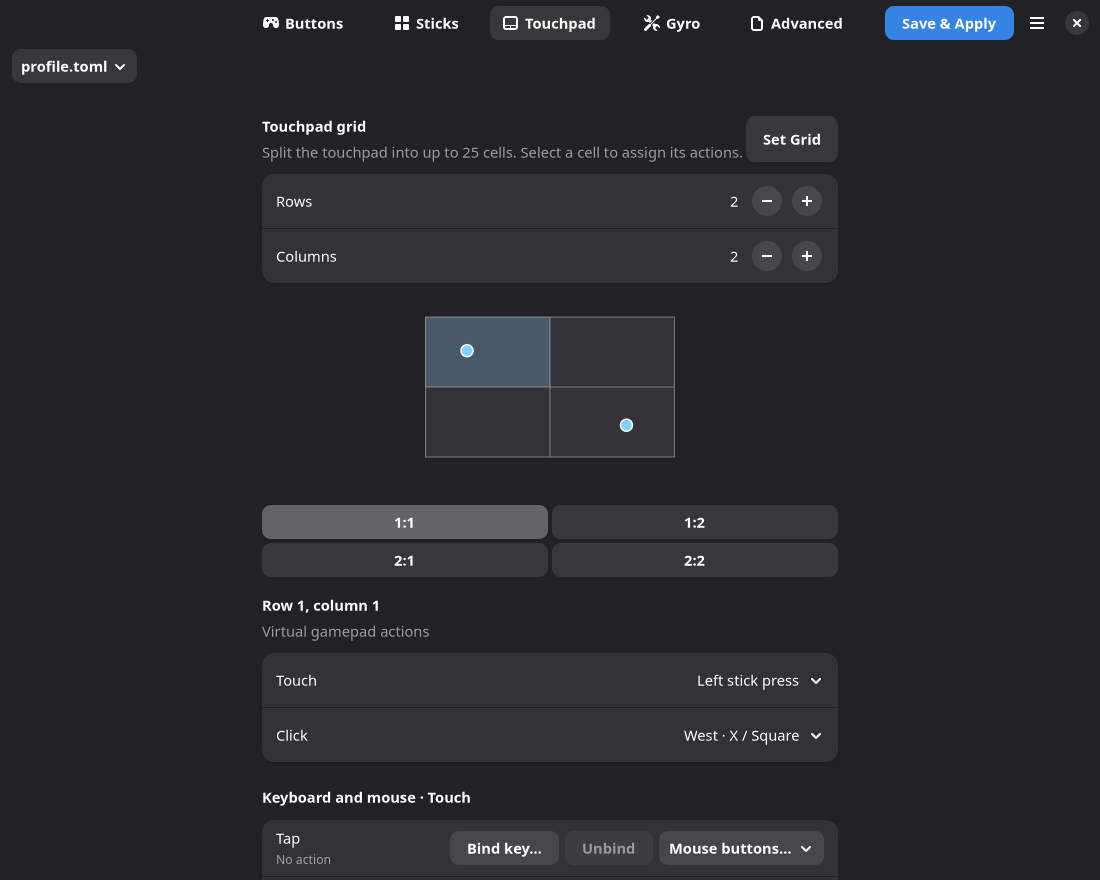
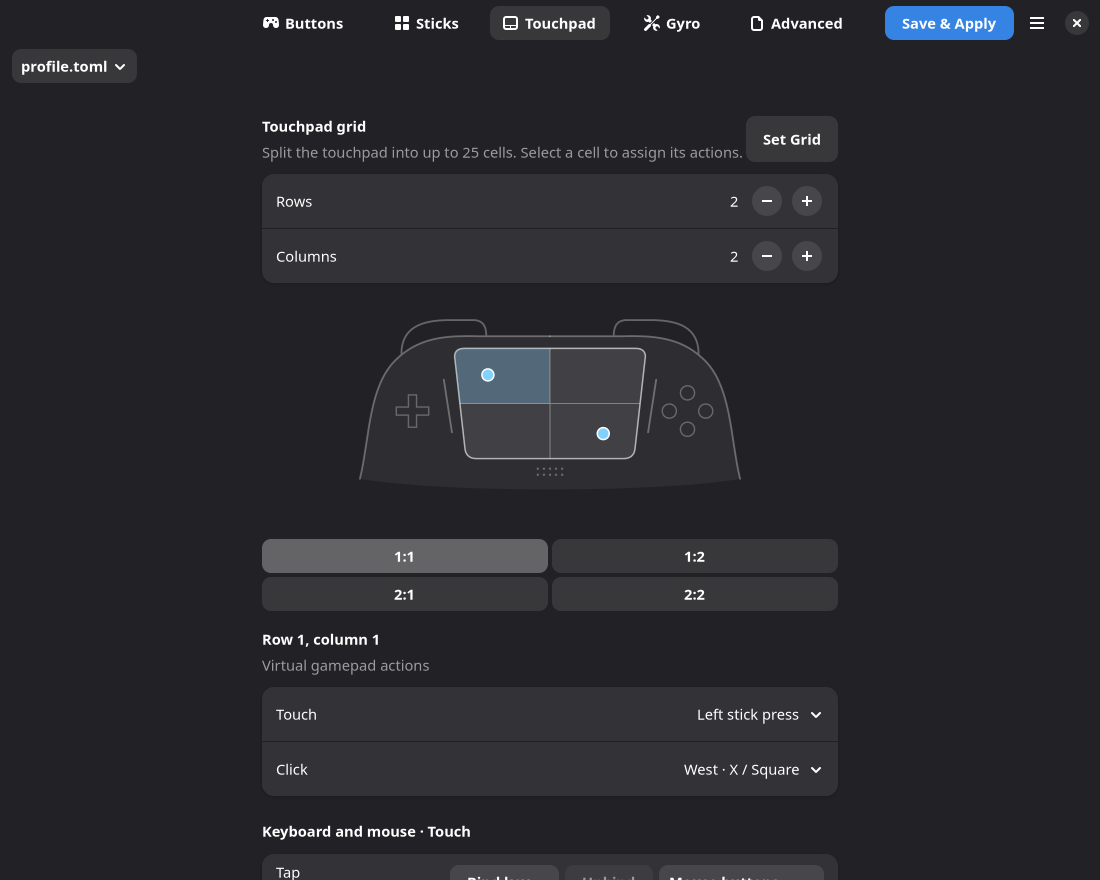
Draw the DualSense upper shell around the live touchpad

diff --git a/crates/joyshockrust-editor/src/touchpad.rs b/crates/joyshockrust-editor/src/touchpad.rs
@@ -426,7 +426,7 @@ fn parse_contacts(value: &str) -> Option<Contacts> {
 fn live_preview(size: Cell, selected: Rc<State<Cell>>, layout: &gtk::Box) -> gtk::DrawingArea {
     let preview = gtk::Box::new(gtk::Orientation::Vertical, 6);
     preview.set_margin_bottom(12);
-    let area = gtk::DrawingArea::builder().content_height(160).build();
+    let area = gtk::DrawingArea::builder().content_height(194).build();
     area.update_property(&[gtk::accessible::Property::Label("Live touchpad preview")]);
     preview.append(&area);
     let status = gtk::Label::builder()
@@ -439,61 +439,14 @@ fn live_preview(size: Cell, selected: Rc<State<Cell>>, layout: &gtk::Box) -> gtk
     let contacts = Rc::new(State::new(Contacts::default()));
     let drawn_contacts = contacts.clone();
     area.set_draw_func(move |area, cr, width, height| {
-        let style = area.style_context();
-        let fg = style.color();
-        let accent = style.lookup_color("accent_color").unwrap_or(fg);
-        let color = |c: gtk::gdk::RGBA, alpha| {
-            cr.set_source_rgba(
-                f64::from(c.red()),
-                f64::from(c.green()),
-                f64::from(c.blue()),
-                alpha,
-            );
-        };
-        let ratio = f64::from(DUALSENSE_TOUCHPAD_WIDTH) / f64::from(DUALSENSE_TOUCHPAD_HEIGHT);
-        let w = (f64::from(width) - 20.0).min((f64::from(height) - 20.0) * ratio);
-        if w <= 0.0 {
-            return;
-        }
-        let h = w / ratio;
-        let left = (f64::from(width) - w) / 2.0;
-        let top = (f64::from(height) - h) / 2.0;
-        let cw = w / size.column as f64;
-        let ch = h / size.row as f64;
-        color(fg, 0.08);
-        cr.rectangle(left, top, w, h);
-        let _ = cr.fill();
-        let cell = selected.get();
-        color(accent, 0.25);
-        cr.rectangle(
-            left + (cell.column - 1) as f64 * cw,
-            top + (cell.row - 1) as f64 * ch,
-            cw,
-            ch,
+        draw_preview(
+            area,
+            cr,
+            (width, height),
+            size,
+            selected.get(),
+            drawn_contacts.get(),
         );
-        let _ = cr.fill();
-        color(fg, 0.38);
-        cr.set_line_width(1.0);
-        cr.rectangle(left, top, w, h);
-        for column in 1..size.column {
-            let x = left + column as f64 * cw;
-            cr.move_to(x, top);
-            cr.line_to(x, top + h);
-        }
-        for row in 1..size.row {
-            let y = top + row as f64 * ch;
-            cr.move_to(left, y);
-            cr.line_to(left + w, y);
-        }
-        let _ = cr.stroke();
-        for (x, y) in drawn_contacts.get().into_iter().flatten() {
-            cr.arc(left + x * w, top + y * h, 6.0, 0.0, std::f64::consts::TAU);
-            color(accent, 1.0);
-            let _ = cr.fill_preserve();
-            color(fg, 1.0);
-            cr.set_line_width(1.5);
-            let _ = cr.stroke();
-        }
     });
     let chart = area.clone();
     controller_input::watch_status(
@@ -515,6 +468,211 @@ fn live_preview(size: Cell, selected: Rc<State<Cell>>, layout: &gtk::Box) -> gtk
         },
     );
     area
+}
+
+const PREVIEW_WIDTH: f64 = 420.0;
+const PREVIEW_HEIGHT: f64 = 180.0;
+const PAD_CENTER: f64 = PREVIEW_WIDTH / 2.0;
+const PAD_TOP: f64 = 35.0;
+const PAD_BOTTOM: f64 = 144.0;
+const PAD_TOP_WIDTH: f64 = 190.0;
+const PAD_BOTTOM_WIDTH: f64 = 166.0;
+
+fn touch_position(x: f64, y: f64) -> (f64, f64) {
+    let width = PAD_TOP_WIDTH + y * (PAD_BOTTOM_WIDTH - PAD_TOP_WIDTH);
+    (
+        PAD_CENTER + (x - 0.5) * width,
+        PAD_TOP + y * (PAD_BOTTOM - PAD_TOP),
+    )
+}
+
+fn draw_preview(
+    area: &gtk::DrawingArea,
+    cr: &gtk::cairo::Context,
+    (width, height): (i32, i32),
+    size: Cell,
+    selected: Cell,
+    contacts: Contacts,
+) {
+    let style = area.style_context();
+    let fg = style.color();
+    let accent = style.lookup_color("accent_color").unwrap_or(fg);
+    let color = |c: gtk::gdk::RGBA, alpha| {
+        cr.set_source_rgba(c.red().into(), c.green().into(), c.blue().into(), alpha);
+    };
+    let scale = ((f64::from(width) - 12.0) / PREVIEW_WIDTH)
+        .min((f64::from(height) - 12.0) / PREVIEW_HEIGHT);
+    if scale <= 0.0 {
+        return;
+    }
+    let _ = cr.save();
+    cr.translate(
+        (f64::from(width) - PREVIEW_WIDTH * scale) / 2.0,
+        (f64::from(height) - PREVIEW_HEIGHT * scale) / 2.0,
+    );
+    cr.scale(scale, scale);
+    draw_upper_shell(cr, |alpha| color(fg, alpha));
+
+    // Round the trapezoid corners without changing the coordinate mapping.
+    let (lt, _) = touch_position(0.0, 0.0);
+    let (rt, _) = touch_position(1.0, 0.0);
+    let (lb, _) = touch_position(0.0, 1.0);
+    let (rb, _) = touch_position(1.0, 1.0);
+    cr.move_to(lt + 10.0, PAD_TOP);
+    cr.line_to(rt - 10.0, PAD_TOP);
+    cr.curve_to(
+        rt - 3.0,
+        PAD_TOP,
+        rt + 0.5,
+        PAD_TOP + 4.0,
+        rt - 1.0,
+        PAD_TOP + 11.0,
+    );
+    cr.line_to(rb + 1.0, PAD_BOTTOM - 9.0);
+    cr.curve_to(
+        rb,
+        PAD_BOTTOM - 3.0,
+        rb - 4.0,
+        PAD_BOTTOM,
+        rb - 10.0,
+        PAD_BOTTOM,
+    );
+    cr.line_to(lb + 10.0, PAD_BOTTOM);
+    cr.curve_to(
+        lb + 4.0,
+        PAD_BOTTOM,
+        lb,
+        PAD_BOTTOM - 3.0,
+        lb - 1.0,
+        PAD_BOTTOM - 9.0,
+    );
+    cr.line_to(lt + 1.0, PAD_TOP + 11.0);
+    cr.curve_to(
+        lt - 0.5,
+        PAD_TOP + 4.0,
+        lt + 3.0,
+        PAD_TOP,
+        lt + 10.0,
+        PAD_TOP,
+    );
+    cr.close_path();
+    color(fg, 0.09);
+    let _ = cr.fill_preserve();
+    color(fg, 0.62);
+    cr.set_line_width(1.5);
+    let _ = cr.stroke_preserve();
+    cr.clip();
+
+    // Zone edges and contact dots share the same surface projection.
+    let move_to = |x, y| {
+        let (x, y) = touch_position(x, y);
+        cr.move_to(x, y);
+    };
+    let line_to = |x, y| {
+        let (x, y) = touch_position(x, y);
+        cr.line_to(x, y);
+    };
+    let left = (selected.column - 1) as f64 / size.column as f64;
+    let right = selected.column as f64 / size.column as f64;
+    let top = (selected.row - 1) as f64 / size.row as f64;
+    let bottom = selected.row as f64 / size.row as f64;
+    move_to(left, top);
+    line_to(right, top);
+    line_to(right, bottom);
+    line_to(left, bottom);
+    cr.close_path();
+    color(accent, 0.28);
+    let _ = cr.fill();
+    for column in 1..size.column {
+        let x = column as f64 / size.column as f64;
+        move_to(x, 0.0);
+        line_to(x, 1.0);
+    }
+    for row in 1..size.row {
+        let y = row as f64 / size.row as f64;
+        move_to(0.0, y);
+        line_to(1.0, y);
+    }
+    color(fg, 0.35);
+    cr.set_line_width(1.0);
+    let _ = cr.stroke();
+    for (x, y) in contacts.into_iter().flatten() {
+        let (x, y) = touch_position(x, y);
+        cr.arc(x, y, 6.0 / scale, 0.0, std::f64::consts::TAU);
+        color(accent, 1.0);
+        let _ = cr.fill_preserve();
+        color(fg, 1.0);
+        cr.set_line_width(1.5 / scale);
+        let _ = cr.stroke();
+    }
+    let _ = cr.restore();
+}
+
+fn draw_upper_shell(cr: &gtk::cairo::Context, color: impl Fn(f64)) {
+    // Leave the lower edge open where the grips continue beyond this view.
+    cr.move_to(22.0, 164.0);
+    cr.curve_to(32.0, 123.0, 30.0, 70.0, 60.0, 44.0);
+    cr.curve_to(82.0, 24.0, 108.0, 22.0, 141.0, 23.0);
+    cr.line_to(279.0, 23.0);
+    cr.curve_to(312.0, 22.0, 338.0, 24.0, 360.0, 44.0);
+    cr.curve_to(390.0, 70.0, 388.0, 123.0, 398.0, 164.0);
+    cr.curve_to(318.0, 178.0, 102.0, 178.0, 22.0, 164.0);
+    color(0.055);
+    let _ = cr.fill();
+
+    for side in [1.0, -1.0] {
+        let _ = cr.save();
+        cr.translate(PAD_CENTER, 0.0);
+        cr.scale(side, 1.0);
+        cr.move_to(-188.0, 164.0);
+        cr.curve_to(-178.0, 123.0, -180.0, 70.0, -150.0, 44.0);
+        cr.curve_to(-128.0, 24.0, -102.0, 22.0, -69.0, 23.0);
+        cr.line_to(0.0, 23.0);
+        cr.move_to(-147.0, 41.0);
+        cr.curve_to(-147.0, 14.0, -127.0, 7.0, -99.0, 7.0);
+        cr.line_to(-76.0, 7.0);
+        cr.curve_to(-65.0, 7.0, -63.0, 15.0, -63.0, 23.0);
+        cr.move_to(-105.0, 66.0);
+        cr.line_to(-97.0, 118.0);
+        color(0.31);
+        cr.set_line_width(1.8);
+        cr.set_line_cap(gtk::cairo::LineCap::Round);
+        let _ = cr.stroke();
+        let _ = cr.restore();
+    }
+
+    // The D-pad, face buttons and speaker grille distinguish the top view.
+    for (x, y) in [
+        (70.0, 81.0),
+        (78.0, 81.0),
+        (78.0, 93.0),
+        (90.0, 93.0),
+        (90.0, 101.0),
+        (78.0, 101.0),
+        (78.0, 113.0),
+        (70.0, 113.0),
+        (70.0, 101.0),
+        (58.0, 101.0),
+        (58.0, 93.0),
+        (70.0, 93.0),
+    ] {
+        cr.line_to(x, y);
+    }
+    cr.close_path();
+    for (x, y) in [(346.0, 79.0), (328.0, 97.0), (364.0, 97.0), (346.0, 115.0)] {
+        cr.new_sub_path();
+        cr.arc(x, y, 7.0, 0.0, std::f64::consts::TAU);
+    }
+    color(0.28);
+    cr.set_line_width(1.4);
+    let _ = cr.stroke();
+    for y in [154.0, 160.0] {
+        for x in [198.0, 204.0, 210.0, 216.0, 222.0] {
+            cr.new_sub_path();
+            cr.arc(x, y, 1.2, 0.0, std::f64::consts::TAU);
+        }
+    }
+    let _ = cr.fill();
 }
 
 fn show_actions(ctx: &Context, cell: Cell, actions: &gtk::Box) {

diff --git a/FEATURE_MATRIX.md b/FEATURE_MATRIX.md
@@ -40,7 +40,7 @@ Reference code reviewed 2026-11-22 at the revisions in the [Phase 0 reference an
 | Virtual output statistics | JoyShockRust service diagnostics. | Synthetic-tested | Status counts successful gamepad, gyro mouse, keyboard and mouse button batches for the current connection. [Report statistics acceptance](TESTING_AND_PERFORMANCE.md#report-statistics-acceptance) |
 | Live virtual gamepad toggle | JoyShockRust service command. | Synthetic-tested | Enable or disable virtual gamepad output while preserving the controller selection and active profile. An opt-in uinput lifecycle test is available. Kernel and physical validation are pending. [Virtual gamepad acceptance](TESTING_AND_PERFORMANCE.md#virtual-gamepad-acceptance) |
 | Desktop tray | StatusNotifierItem companion with XDG login startup. | Synthetic-tested | Displays the connection and report rate on one row, with battery status over Bluetooth. Shows labeled active controller and profile menus, restores the last profile at service startup, groups gamepad and gyro mouse toggles under a master switch, has ordered bridge and tray restarts, launches controller-navigable Wayland gyro and RWC calibration windows with live sweep feedback and a profile picker for RWC and quits the bridge. Desktop validation is pending. [Desktop tray acceptance](TESTING_AND_PERFORMANCE.md#desktop-tray-acceptance) |
-| Desktop profile editor | Native companion launched from the tray, with a picker for opening and creating profile drafts. | Automated Wayland widget tests | Edits the virtual gamepad type, exclusive per-button keyboard, mouse or gamepad assignments with inline keyboard capture with Esc/click cancellation and a 10-second timeout, mouse dropdowns and Unbind, partial and full trigger actions with configurable overlap, gyro sensitivity with independent or linked stepped sliders and numeric entry, gyro-only and gravity-referenced aim modes, gyro activation bindings, switchable gyro acceleration and a minimum speed to suppress residual drift, gyro and Flick Stick response charts, live calibrated IMU readings with centered per-axis angular velocity sliders, and Flick Stick input and timing controls with live stick previews, per-stick response curves, keyboard directions and zones, game calibration and touchpad grid gamepad and keyboard/mouse mappings with a live two-contact preview, and touch-region gyro activation. Advanced TOML exposes the remaining settings. [Desktop tray acceptance](TESTING_AND_PERFORMANCE.md#desktop-tray-acceptance) |
+| Desktop profile editor | Native companion launched from the tray, with a picker for opening and creating profile drafts. | Automated Wayland widget tests | Edits the virtual gamepad type, exclusive per-button keyboard, mouse or gamepad assignments with inline keyboard capture with Esc/click cancellation and a 10-second timeout, mouse dropdowns and Unbind, partial and full trigger actions with configurable overlap, gyro sensitivity with independent or linked stepped sliders and numeric entry, gyro-only and gravity-referenced aim modes, gyro activation bindings, switchable gyro acceleration and a minimum speed to suppress residual drift, gyro and Flick Stick response charts, live calibrated IMU readings with centered per-axis angular velocity sliders, and Flick Stick input and timing controls with live stick previews, per-stick response curves, keyboard directions and zones, game calibration and touchpad grid gamepad and keyboard/mouse mappings with a live two-contact preview on a DualSense outline, and touch-region gyro activation. Advanced TOML exposes the remaining settings. [Desktop tray acceptance](TESTING_AND_PERFORMANCE.md#desktop-tray-acceptance) |
 | Optional local-seat device access | Valve device rules cover supported Sony hidraw nodes and uinput. | Rule syntax verified | Independent fallback rules grant active-seat access when needed. Verify device opens on a desktop host before and after installing a fallback. [Setup and fallback rules](README.md#optional-device-access-rules) |
 | TOML / IPC / systemd | JoyShockRust uses versioned TOML, Unix sockets and a systemd user service. | TOML startup profiles tested | Profile validation, startup configuration and device access diagnostics are available. User service startup and USB reconnect passed on Fedora. Valid and invalid SIGHUP reloads passed on Fedora. Read-only USB status passed on Fedora. The socket also reports the last reload result. The Fedora startup profile test confirmed that invalid profiles stop automatic restarts. The synchronous reload command passed on Fedora. Validated preset installation writes an atomic profile replacement. [Service setup](README.md#systemd-user-service) |
 | Per-game controller visibility | SDL VID/PID filtering is backend-specific. | Launcher tests and user Steam visibility check | The per-process launcher preserves existing SDL filters. The user saw only the virtual Xbox Series controller when launching Steam with the filter. Named game and Proton verification remain open. [SDL ignore list](https://github.com/libsdl-org/SDL/blob/402fc52af4e731184ad6a704068b5ccd27d8f1b8/include/SDL3/SDL_hints.h#L897-L913) |

diff --git a/docs/EDITOR_SCREENSHOTS.md b/docs/EDITOR_SCREENSHOTS.md
@@ -21,9 +21,10 @@ The right stick in this example uses Flick Stick.
 ## Touchpad
 
 Choose a grid region to configure separate touch and click actions. The
-preview highlights the selected region and shows each finger as a dot.
+preview shows the upper DualSense outline, highlights the selected
+region on the touchpad, and shows each finger as a dot.
 
-![Touchpad tab showing two finger positions in a two-by-two grid and bindings for the selected region](screenshots/editor-touchpad.png)
+![Touchpad tab showing two finger positions on a DualSense-shaped pad with a two-by-two grid and upper controller outline](screenshots/editor-touchpad.png)
 
 ## Gyro
 

diff --git a/IMPLEMENTATION_PLAN.md b/IMPLEMENTATION_PLAN.md
@@ -304,7 +304,8 @@ speed-dependent gain that can be toggled per profile. The default minimum
 speed filters small residual bias after calibration. The Gyro editor shows
 the speed response and calibrated IMU readings from the active controller.
 Each angular velocity axis has a centered slider. The Touchpad editor
-overlays up to two live contacts on the draft zone grid.
+overlays up to two live contacts on the draft zone grid inside a
+DualSense upper-shell illustration.
 
 The tray launches a native profile editor. The editor creates, validates,
 saves and applies TOML profiles. Its visual controller layout selects

diff --git a/DECISIONS.md b/DECISIONS.md
@@ -49,6 +49,8 @@ positions for display, using the same decoded reports as the touch mappings.
 The editor draws those positions over its draft grid. This keeps the preview
 independent of profile activation and avoids a second hidraw reader.
 The touch snapshot distinguishes finger release from connection loss.
+The touchpad preview projects zone boundaries and contact positions
+onto the same tapered surface so both follow the illustrated pad.
 
 ## Optional desktop device access
 
